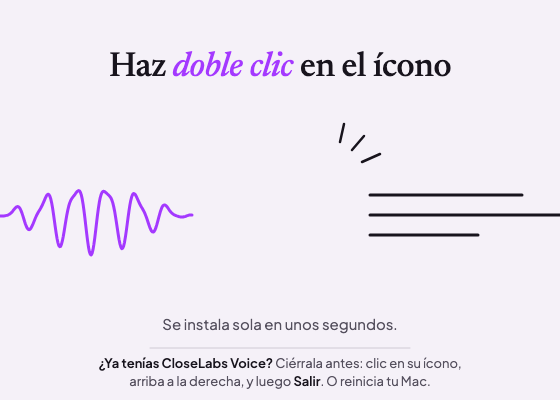
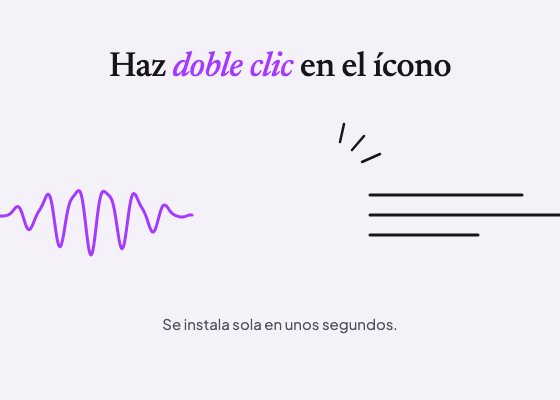
instalador de Mac: sin el aviso de cerrar la versión anterior (ruido y quedaba cortado)

Changed region(s): [[0.1821, 0.9, 0.8196, 0.99]]

diff --git a/diseno/maquetas/index.html b/diseno/maquetas/index.html
@@ -330,9 +330,6 @@ h1 em{color:var(--lila)}
 <path d="M352 150 L364 136 M362 162 L380 154 M340 142 L344 124" stroke="#18141D" stroke-width="2.5"/>
 <text x="280" y="76" text-anchor="middle" font-family="Newsreader, Georgia, serif" font-size="34" font-weight="500" fill="#18141D" letter-spacing="-0.4">Haz <tspan font-style="italic" fill="#A439FF">doble clic</tspan> en el ícono</text>
 <text x="280" y="330" text-anchor="middle" font-family="'Plus Jakarta Sans', Helvetica, sans-serif" font-size="15" fill="#55505E">Se instala sola en unos segundos.</text>
-<path d="M150 348 L410 348" stroke="#CFCAD4" stroke-width="1"/>
-<text x="280" y="368" text-anchor="middle" font-family="'Plus Jakarta Sans', Helvetica, sans-serif" font-size="13" fill="#55505E"><tspan font-weight="600" fill="#18141D">¿Ya tenías CloseLabs Voice?</tspan> Ciérrala antes: clic en su ícono,</text>
-<text x="280" y="386" text-anchor="middle" font-family="'Plus Jakarta Sans', Helvetica, sans-serif" font-size="13" fill="#55505E">arriba a la derecha, y luego <tspan font-weight="600" fill="#18141D">Salir</tspan>. O reinicia tu Mac.</text>
 </svg><img class="ic" src="../../src-tauri/icons/128x128@2x.png" alt=""><div class="et">CloseLabs Voice</div></div></div></div></section>
 <section class="marco"><header><span class="n">02</span><h3>Instalando (Mac)</h3><p>La misma ventana, tamaño y lugar que la bienvenida, y el mismo dibujo en el escenario: al terminar solo cambia la columna de texto. Cada paso se ve al menos 1,2 s.</p></header><div class="lienzo"><div class="sub">Paso 1 de 3 · la app abierta desde el disco</div><div class="ventana"><div class="barra-titulo"><b><i></i><i></i><i></i></b>CloseLabs Voice</div><div class="ob "><div class="ob-top"><img class="logo" src="../../public/brand/closelabs-black.png" alt="CloseLabs"><div class="etapas"><div class="etapa ">Cuenta<i></i></div><div class="etapa ">Permisos<i></i></div><div class="etapa ">Prueba<i></i></div><div class="etapa ">Práctica<i></i></div></div><a class="ayuda">¿Necesitas ayuda?</a></div><div class="ob-cuerpo"><div class="ob-izq"><div class="atras"></div><h1><em>Instalando</em> CloseLabs Voice.</h1><p class="p">No tienes que hacer nada. Tarda unos segundos.</p><svg width="380" height="36" viewBox="0 0 380 36" fill="none" stroke-linecap="round" stroke-linejoin="round" style="display:block;margin-top:28px"><path d="M2 18 H50" stroke="#18141D" stroke-width="3"/><path d="M50.0 18.0 L50.3 18.0 L50.6 18.0 L50.9 18.1 L51.2 18.1 L51.5 18.2 L51.7 18.2 L52.0 18.3 L52.3 18.3 L52.6 18.4 L52.9 18.5 L53.2 18.6 L53.5 18.6 L53.8 18.7 L54.1 18.8 L54.4 18.9 L54.7 18.9 L54.9 19.0 L55.2 19.0 L55.5 19.1 L55.8 19.1 L56.1 19.2 L56.4 19.2 L56.7 19.3 L57.0 19.3 L57.3 19.3 L57.6 19.4 L57.9 19.4 L58.1 19.4 L58.4 19.4 L58.7 19.4 L59.0 19.4 L59.3 19.3 L59.6 19.3 L59.9 19.2 L60.2 19.1 L60.5 18.9 L60.8 18.8 L61.1 18.6 L61.3 18.3 L61.6 18.0 L61.9 17.7 L62.2 17.3 L62.5 16.9 L62.8 16.4 L63.1 15.9 L63.4 15.4 L63.7 14.9 L64.0 14.4 L64.3 13.8 L64.5 13.3 L64.8 12.8 L65.1 12.3 L65.4 11.8 L65.7 11.4 L66.0 11.0 L66.3 10.8 L66.6 10.6 L66.9 10.4 L67.2 10.4 L67.5 10.5 L67.7 10.6 L68.0 10.9 L68.3 11.3 L68.6 11.7 L68.9 12.3 L69.2 12.9 L69.5 13.7 L69.8 14.4 L70.1 15.3 L70.4 16.2 L70.7 17.1 L70.9 18.1 L71.2 19.0 L71.5 20.0 L71.8 20.9 L72.1 21.8 L72.4 22.6 L72.7 23.4 L73.0 24.1 L73.3 24.7 L73.6 25.2 L73.9 25.7 L74.1 26.1 L74.4 26.3 L74.7 26.5 L75.0 26.6 L75.3 26.6 L75.6 26.5 L75.9 26.4 L76.2 26.1 L76.5 25.9 L76.8 25.6 L77.1 25.2 L77.3 24.9 L77.6 24.5 L77.9 24.1 L78.2 23.7 L78.5 23.3 L78.8 22.9 L79.1 22.5 L79.4 22.1 L79.7 21.8 L80.0 21.4 L80.3 21.1 L80.5 20.7 L80.8 20.4 L81.1 20.0 L81.4 19.7 L81.7 19.3 L82.0 18.9 L82.3 18.5 L82.6 18.1 L82.9 17.6 L83.2 17.1 L83.5 16.5 L83.7 16.0 L84.0 15.4 L84.3 14.7 L84.6 14.1 L84.9 13.4 L85.2 12.7 L85.5 12.1 L85.8 11.4 L86.1 10.8 L86.4 10.2 L86.7 9.6 L86.9 9.1 L87.2 8.7 L87.5 8.4 L87.8 8.1 L88.1 8.0 L88.4 7.9 L88.7 8.0 L89.0 8.2 L89.3 8.5 L89.6 8.9 L89.9 9.4 L90.1 10.1 L90.4 10.8 L90.7 11.6 L91.0 12.4 L91.3 13.4 L91.6 14.4 L91.9 15.4 L92.2 16.4 L92.5 17.4 L92.8 18.4 L93.1 19.4 L93.3 20.3 L93.6 21.2 L93.9 22.0 L94.2 22.8 L94.5 23.4 L94.8 23.9 L95.1 24.4 L95.4 24.7 L95.7 25.0 L96.0 25.2 L96.3 25.2 L96.5 25.2 L96.8 25.1 L97.1 24.9 L97.4 24.6 L97.7 24.3 L98.0 23.9 L98.3 23.5 L98.6 23.1 L98.9 22.7 L99.2 22.2 L99.5 21.8 L99.7 21.3 L100.0 20.9 L100.3 20.5 L100.6 20.1 L100.9 19.7 L101.2 19.4 L101.5 19.1 L101.8 18.8 L102.1 18.5 L102.4 18.3 L102.7 18.1 L102.9 17.9 L103.2 17.8 L103.5 17.6 L103.8 17.5 L104.1 17.4 L104.4 17.3 L104.7 17.2 L105.0 17.2 L105.3 17.1 L105.6 17.0 L105.9 17.0 L106.1 16.9 L106.4 16.8 L106.7 16.8 L107.0 16.8 L107.3 16.7 L107.6 16.7 L107.9 16.7 L108.2 16.7 L108.5 16.7 L108.8 16.8 L109.1 16.8 L109.3 16.9 L109.6 16.9 L109.9 17.0 L110.2 17.1 L110.5 17.2 L110.8 17.3 L111.1 17.4 L111.4 17.5 L111.7 17.6 L112.0 17.7 L112.3 17.8 L112.5 17.8 L112.8 17.9 L113.1 17.9 L113.4 18.0 L113.7 18.0 L114.0 18.0" stroke="#A439FF" stroke-width="3"/><path d="M124 18 H378" stroke="#CFCAD4" stroke-width="3" stroke-dasharray="1 9"/></svg><div class="permisos inst" style="margin-top:12px"><div class="permiso vivo"><span class="marca"></span><div><b>Copiando a Aplicaciones…</b></div></div><div class="permiso pend"><span class="marca"></span><div><b>Preparando tu computador</b></div></div><div class="permiso pend"><span class="marca"></span><div><b>Abriendo CloseLabs Voice</b></div></div></div></div><div class="ob-esc"><svg xmlns="http://www.w3.org/2000/svg" viewBox="0 0 520 400" width="520" height="400" fill="none" stroke-linecap="round" stroke-linejoin="round">
 <path d="M286 84 Q284 76 293 75 L484 71 Q493 71 493 80 L497 332 Q497 341 488 341 L291 345 Q282 345 282 336 Z" fill="#FFFFFF" stroke="#18141D" stroke-width="2"/>

diff --git a/diseno/herramientas/gen.py b/diseno/herramientas/gen.py
@@ -73,12 +73,8 @@ def il_dmg():
     c.append('<path d="M352 150 L364 136 M362 162 L380 154 M340 142 L344 124" stroke="%s" stroke-width="2.5"/>'%TINTA)
     c.append('<text x="280" y="76" text-anchor="middle" font-family="Newsreader, Georgia, serif" font-size="34" font-weight="500" fill="%s" letter-spacing="-0.4">Haz <tspan font-style="italic" fill="%s">doble clic</tspan> en el ícono</text>'%(TINTA,LILA))
     c.append('<text x="280" y="330" text-anchor="middle" font-family="\'Plus Jakarta Sans\', Helvetica, sans-serif" font-size="15" fill="#55505E">Se instala sola en unos segundos.</text>')
-    # Si la versión anterior sigue abierta (el botón rojo solo esconde la ventana), macOS no deja abrir
-    # la nueva y dice "can't be opened" (REVISION-PRIMER-USO.md, 2026-11-12). Mismo texto que la web.
-    c.append('<path d="M150 348 L410 348" stroke="%s" stroke-width="1"/>'%LINEA)
-    nota='font-family="\'Plus Jakarta Sans\', Helvetica, sans-serif" font-size="13" fill="#55505E"'
-    c.append('<text x="280" y="368" text-anchor="middle" %s><tspan font-weight="600" fill="%s">¿Ya tenías CloseLabs Voice?</tspan> Ciérrala antes: clic en su ícono,</text>'%(nota,TINTA))
-    c.append('<text x="280" y="386" text-anchor="middle" %s>arriba a la derecha, y luego <tspan font-weight="600" fill="%s">Salir</tspan>. O reinicia tu Mac.</text>'%(nota,TINTA))
+    # (2026-11-13) Se quitó el aviso "¿Ya tenías CloseLabs Voice? Ciérrala antes…": Nicolás lo vio como
+    # ruido, y además quedaba cortado abajo (la ventana del .dmg sale más baja que el fondo).
     return svg(560,400,"\n".join(c))
 
 ILS={"voz-a-texto.svg":il_voz(),"privacidad.svg":il_priv(),"correo-codigo.svg":il_correo(),"dmg-fondo.svg":il_dmg()}
